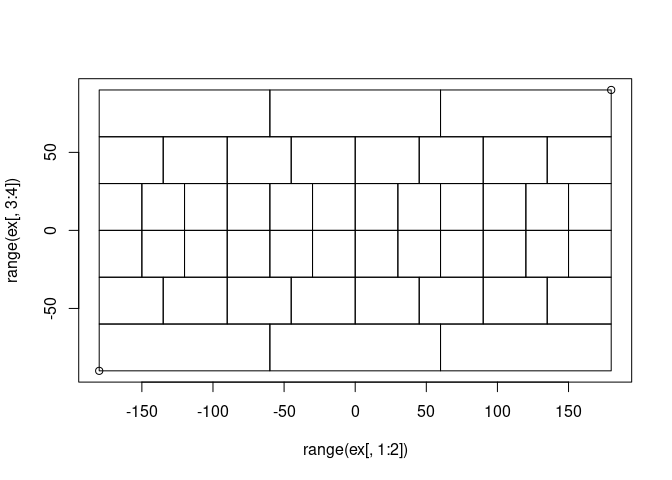
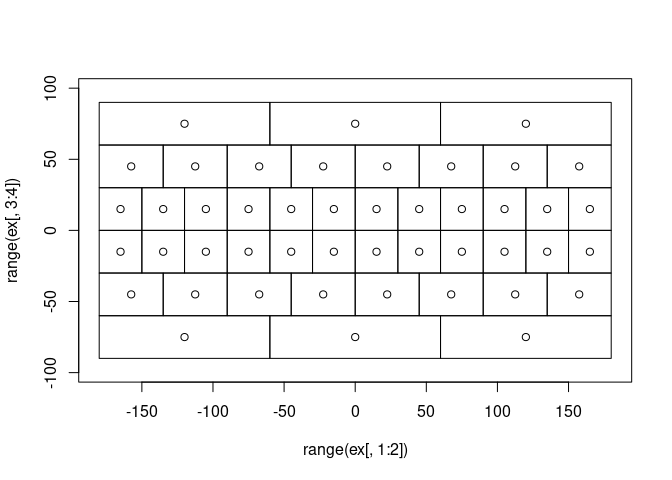
warning about overflow as per issue #3

diff --git a/README.md b/README.md
@@ -24,7 +24,8 @@ devtools::install_github("hypertidy/L3bin")
 
 ## Example
 
-This is a basic example which shows you how to solve a common problem:
+This is a basic example which shows how to create a very low resolution
+L3 bin scheme, plot it and perform some queries.
 
 ``` r
 library(L3bin)
@@ -33,35 +34,77 @@ nr <- 6
 bins <- L3bin(nr)
 ex <- extent_from_bin(1:bins$totbins, nr)
 
-plot(range(ex[,1:2]), range(ex[,3:4]))
+plot(range(ex[,1:2]), range(ex[,3:4]), type = "n", asp = 1)
 rect(ex[,1], ex[,3], ex[,2], ex[, 4])
+points(lonlat_from_bin(1:bins$totbins, NUMROWS = nr))
 ```
 
 <img src="man/figures/README-example-1.png" width="100%" />
 
+Now we increas the resolution and use the available froms to crop,
+obtain bin boundaries, and provide the centre point of the bin from its
+index.
+
 ``` r
-
-
 nr <- 12
 bins <- L3bin(nr)
 lbins <- crop_bins(bins, extent = c(-20, 30, -60, -10))
 ex <- extent_from_bin(lbins, nr)
 
-plot(range(ex[,1:2]), range(ex[,3:4]))
+plot(range(ex[,1:2]), range(ex[,3:4]), type = "n", asp = 1)
 rect(ex[,1], ex[,3], ex[,2], ex[, 4])
+points(lonlat_from_bin(lbins,  NUMROWS = nr))
 ```
 
-<img src="man/figures/README-example-2.png" width="100%" />
+<img src="man/figures/README-twelve-1.png" width="100%" />
 
 ``` r
 
 ex <- extent_from_bin(1:bins$totbins, nr)
 
-plot(range(ex[,1:2]), range(ex[,3:4]))
+plot(range(ex[,1:2]), range(ex[,3:4]), type = "n", asp = 1)
 rect(ex[,1], ex[,3], ex[,2], ex[, 4])
+points(lonlat_from_bin(1:bins$totbins,  NUMROWS = nr))
 ```
 
-<img src="man/figures/README-example-3.png" width="100%" />
+<img src="man/figures/README-twelve-2.png" width="100%" />
+
+It should be clear that while we can easily up the detail and obtain
+very large numbers of bins, it’s much smarter to keep things lazy and
+not materialize the actual bin numbers, boundary extents, or centre
+points. It very quickly can become unwieldly. For example, the base
+resolution of SeaWiFS L3 bins in 1998 was a NUMROWS of 2160, which means
+a lot of unnecessary storage. Much better to avoid that when the
+functions provide the capability we need without generating the grid
+explicitly.
+
+``` r
+(nbins_2160 <- L3bin(2160)$totbins)
+#> [1] 5940422
+
+## this would be nearly 25Mb just to list the bin index
+nbins_2160 * 4 / 1e6
+#> [1] 23.76169
+
+## 190Mb to store the bin boundaries
+nbins_2160 * 4 * 8/ 1e6
+#> [1] 190.0935
+
+## another 50Mb just for the centre coordinates
+nbins_2160 * 8 / 1e6
+#> [1] 47.52338
+```
+
+A grid with 2160 rows represents approximately 9.28km^2 in bin area, and
+we may have much higher resolution that that for modern tasks. L3bin
+provides a simple core for this binning scheme.
+
+### Warning
+
+The bin number is currently stored as an integer, so beyond \~41000 )
+rows this will overflow and we’d need to use a larger type to store it.
+Let us know if you need this, or encounter problems. 41000 rows is near
+a 500m bin size, which is the resolution of GEBCO 2021 for example.
 
 Get lonlat from bin and vice versa.
 
